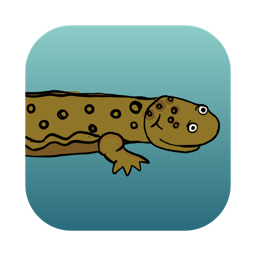
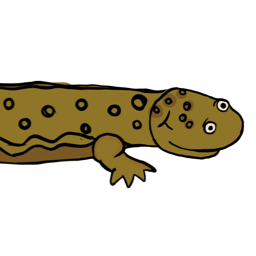
Update site from hellbuddy-source@f866d19

diff --git a/index.html b/index.html
@@ -24,8 +24,8 @@
   a { color: var(--accent); }
   .download {
     display: inline-block;
-    background: var(--accent);
-    color: var(--bg);
+    background: tomato;
+    color: #ffffff;
     text-decoration: none;
     font-weight: bold;
     padding: 12px 24px;
